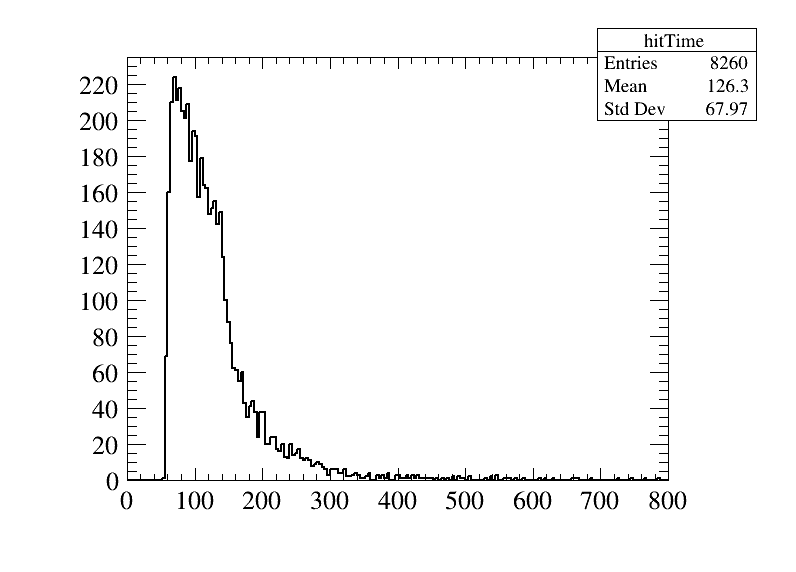
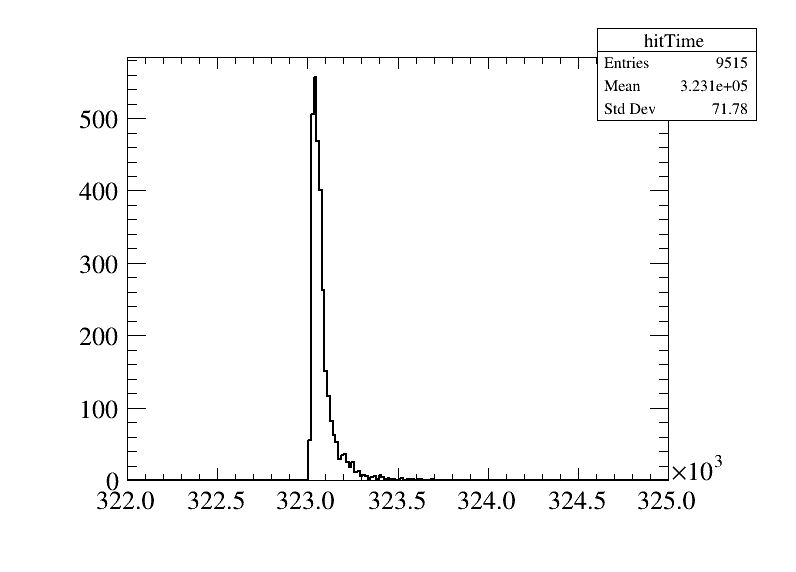
1200 cut is ok

diff --git a/Roottest/EnergyLeakage/REL.py b/Roottest/EnergyLeakage/REL.py
@@ -1,3 +1,4 @@
+import sys
 import ROOT
 
 try:
@@ -11,9 +12,12 @@ evt=ROOT.TChain("evt")
 evt.Add(HXD1)
 evt.SetBranchStatus("*", 0)
 evt.SetBranchStatus("hitTime", 1)
-evt.GetEntry(1)
+evt.GetEntry(int(sys.argv[1]))
 hitTime=np.asarray(evt.hitTime)
-h_hit=ROOT.TH1D("hitTime","",200,0,800)
+print np.sum(hitTime<1200),hitTime.size
+x_min=float(sys.argv[2])
+x_max=float(sys.argv[3])
+h_hit=ROOT.TH1D("hitTime","",200,x_min,x_max)
 for i in hitTime:
     h_hit.Fill(i)
 c = ROOT.TCanvas("myCanvasName","The Canvas Title",800,600)
